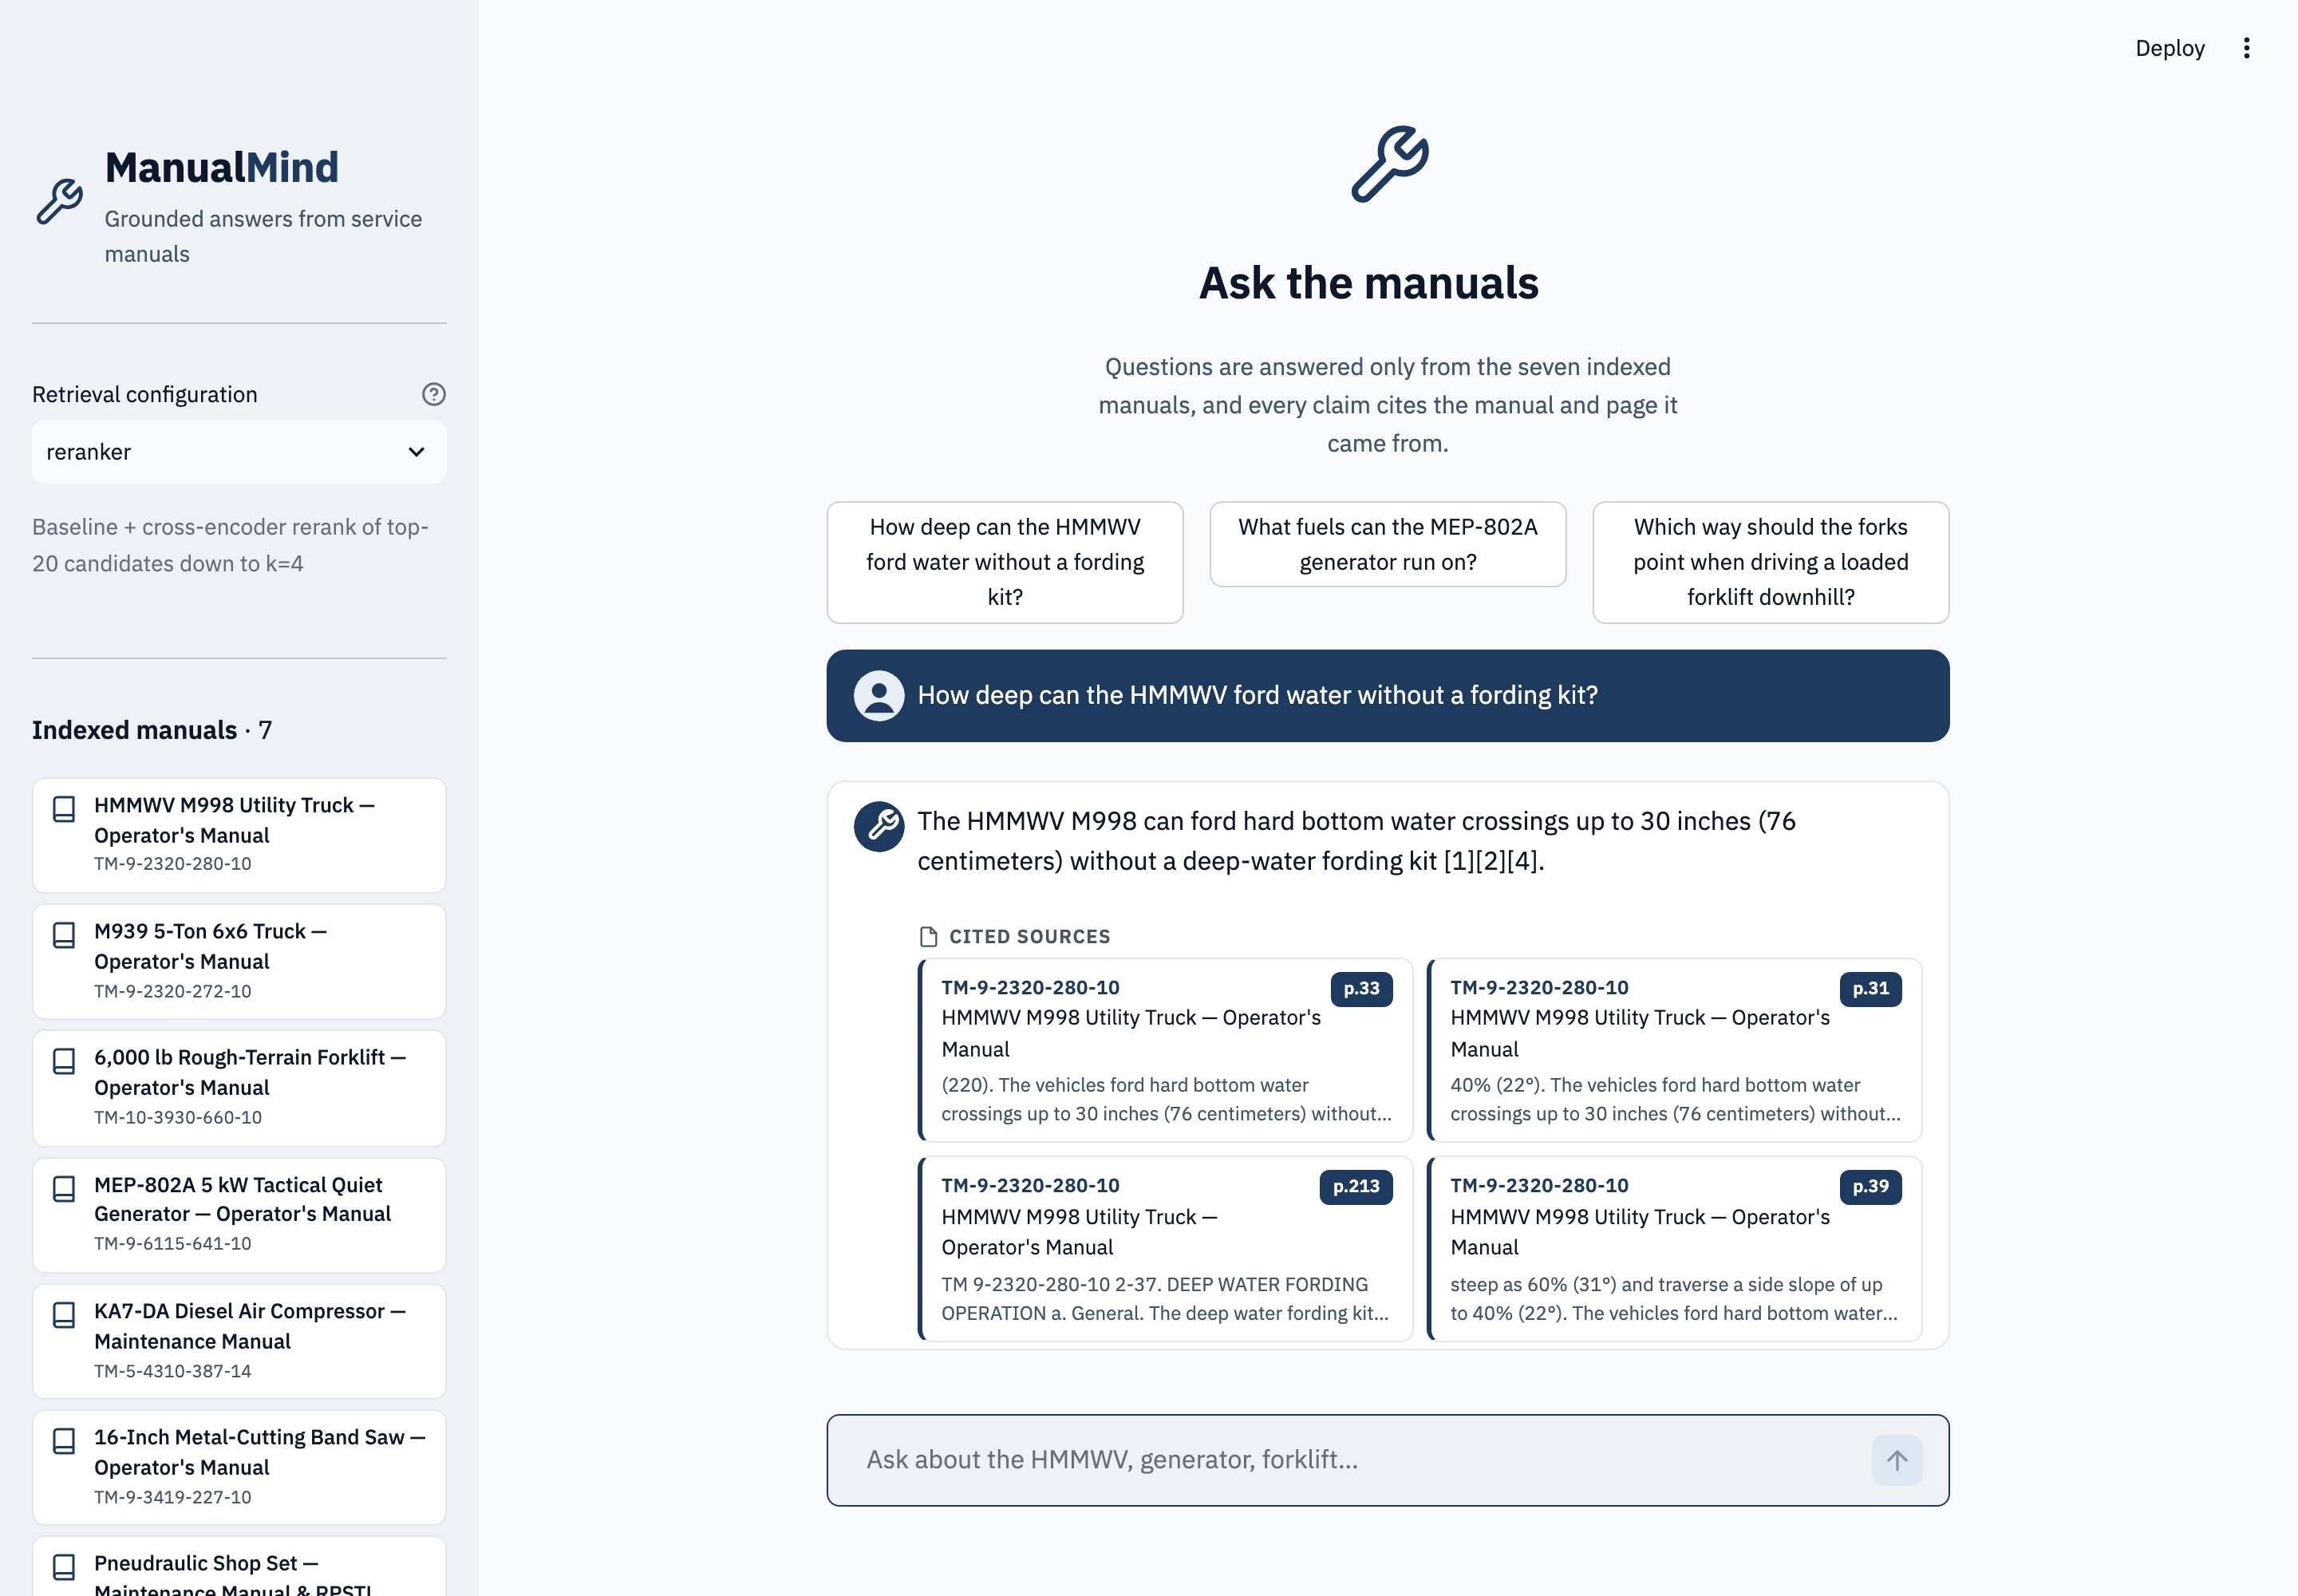
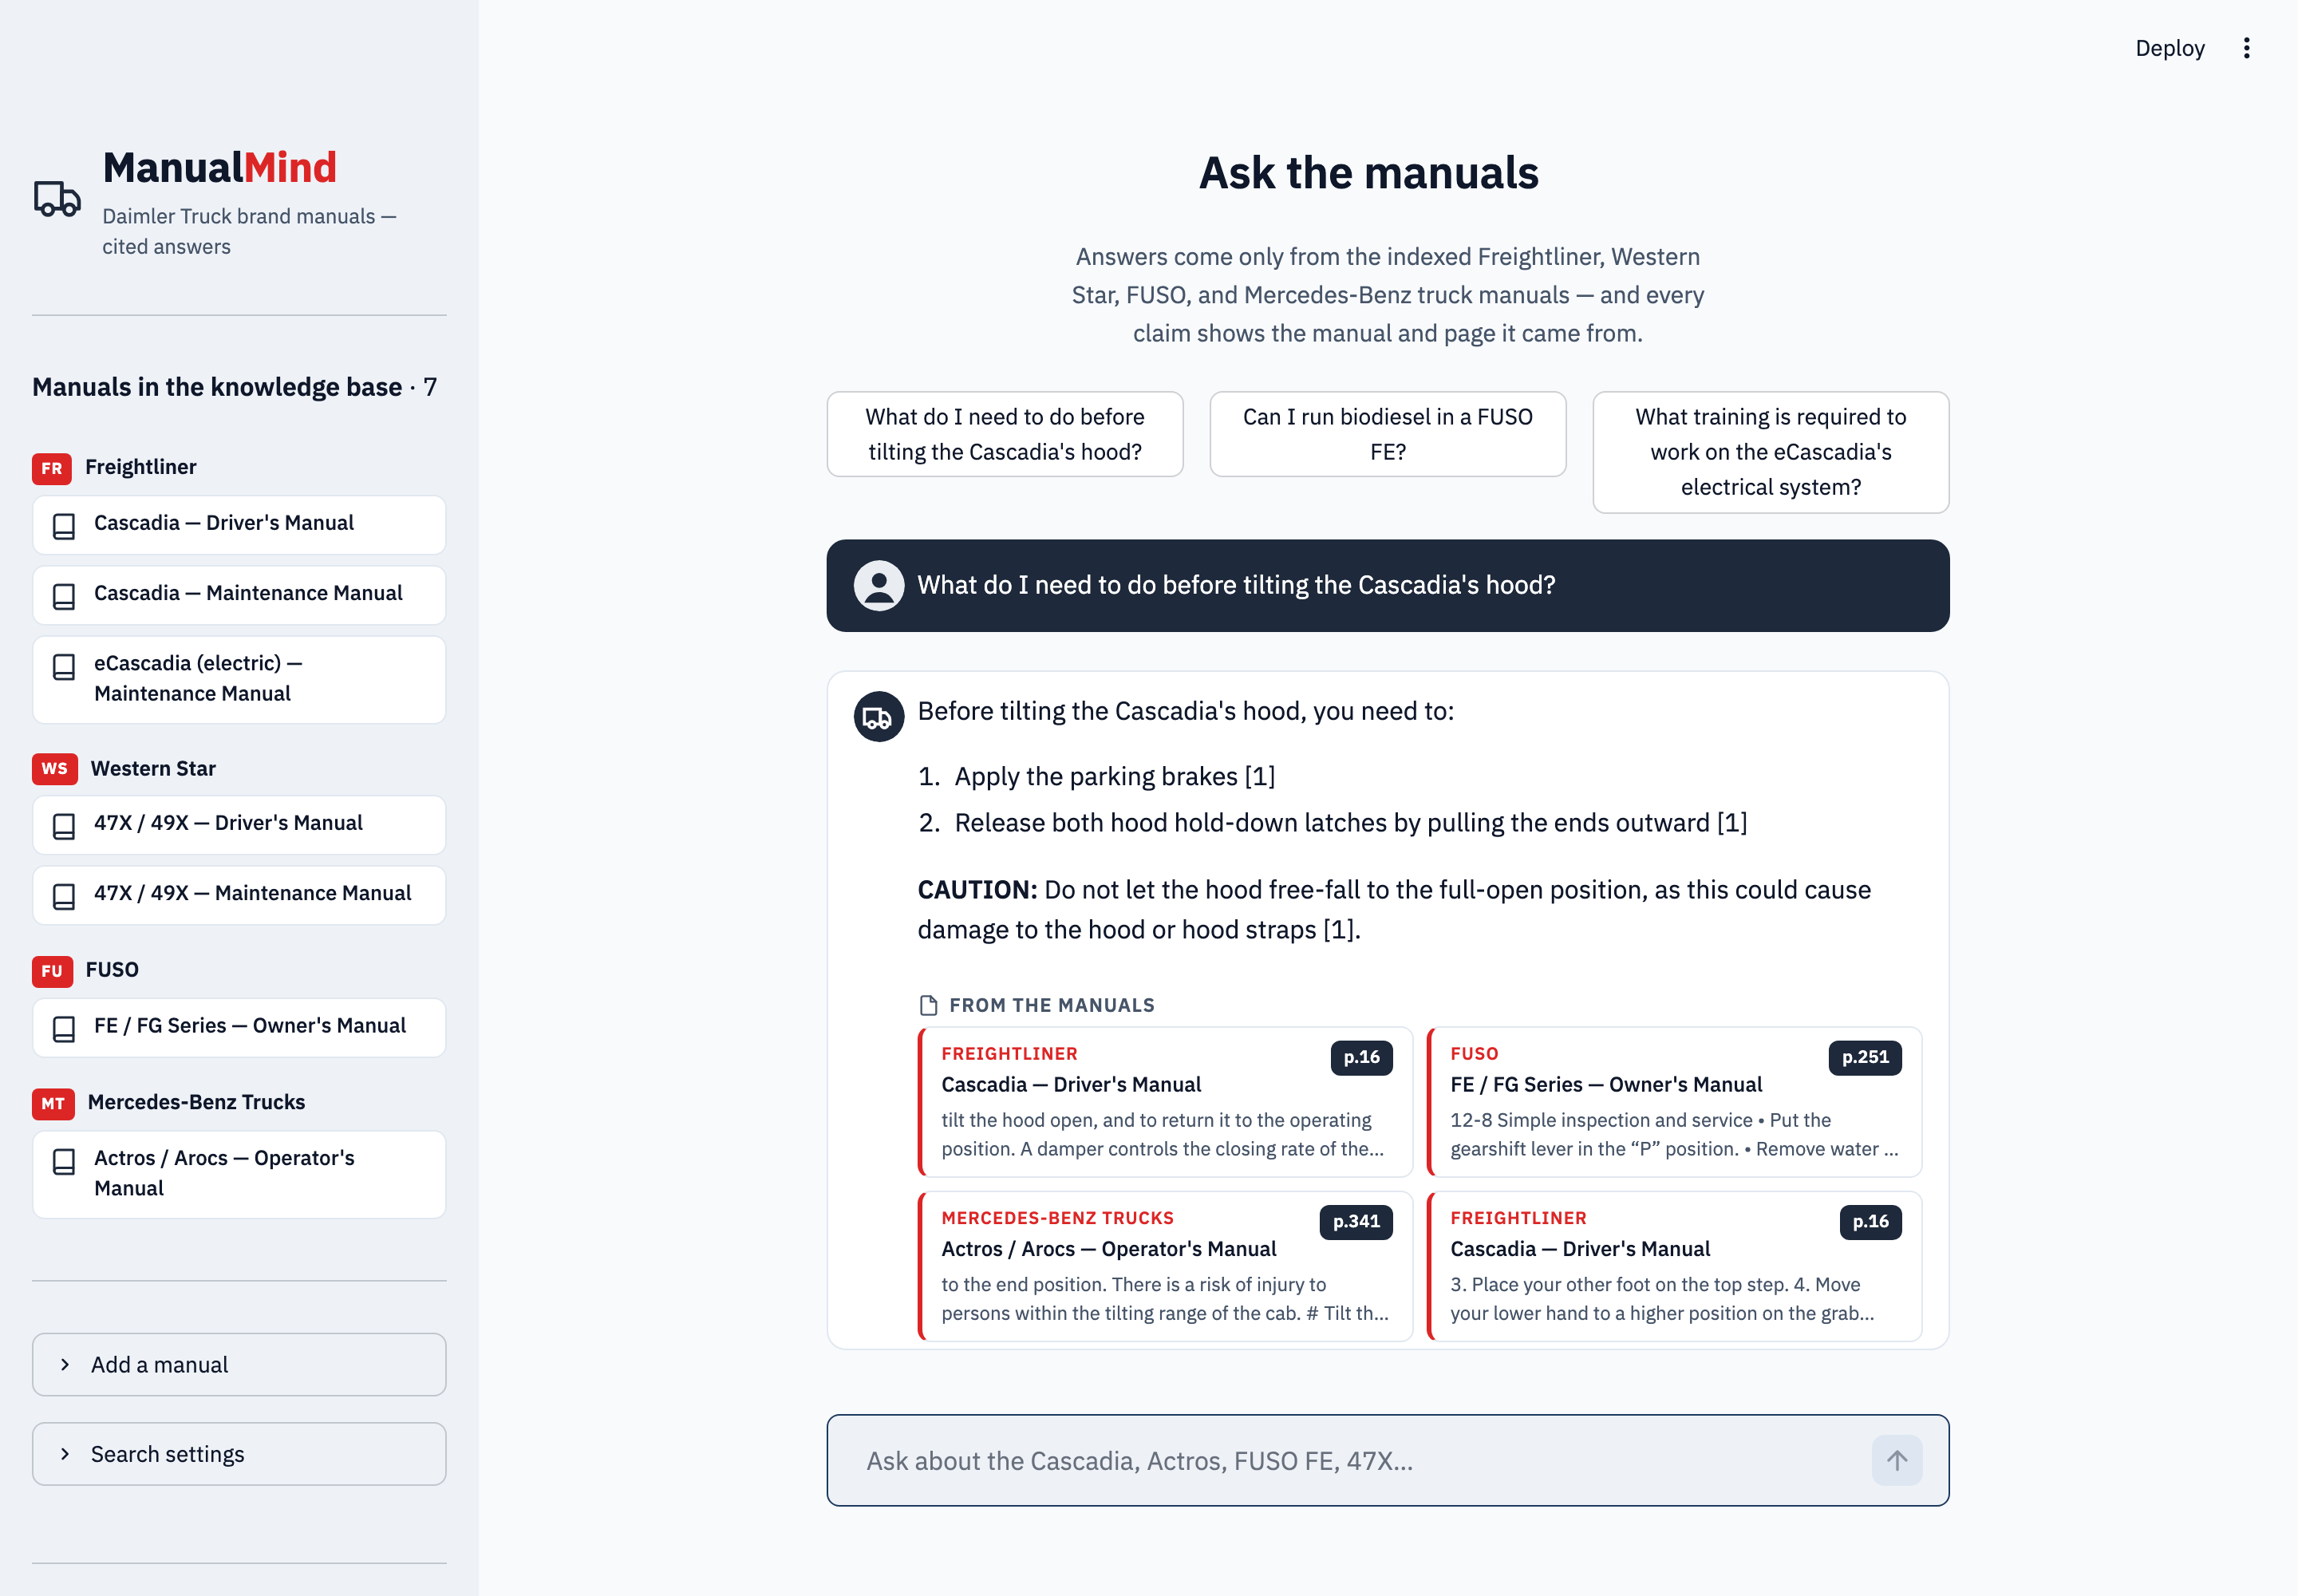
Daimler-corpus Ragas study: reranker wins again (0.991 faith, +0.23 recall)
28 questions x 4 configs, zero errors. Chunk-size effect flips sign vs the
Army corpus (-0.16 recall there, +0.02 here) — documented as the reason to
measure rather than assume. README results + hero screenshot updated.

diff --git a/README.md b/README.md
@@ -10,7 +10,7 @@ including a before/after study that changes one variable at a time.
 > Personal learning/portfolio project. Not affiliated with or endorsed by
 > Daimler Truck AG or Daimler Truck North America.
 
-<!-- SCREENSHOT -->
+![ManualMind: cited answer with brand-labeled source cards](docs/ui-screenshot.png)
 
 ## What it does
 
@@ -30,7 +30,33 @@ including a before/after study that changes one variable at a time.
 
 ## Results (before/after config study)
 
-<!-- RESULTS -->
+All four configs, one Ragas run each over the same 28 questions (generation:
+claude-haiku-4-5; judge: claude-sonnet-5; deltas vs baseline in parentheses).
+Source of truth: `evals/results/*_summary.json` + `comparison.xlsx`, 2026-07-08.
+
+| Config | faithfulness | answer_relevancy | context_precision | context_recall |
+|---|---|---|---|---|
+| baseline (dense, 800/150, k=4) | 0.949 | 0.515 | 0.479 | 0.500 |
+| small-chunks (300/100) | 0.973 (+0.024) | 0.532 (+0.017) | 0.494 (+0.015) | 0.524 (+0.024) |
+| **reranker** (top-20 → cross-encoder → 4) | **0.991** (+0.042) | **0.702** (+0.186) | **0.696** (+0.217) | **0.732** (+0.232) |
+| hybrid (BM25+dense RRF) | 0.932 (−0.018) | 0.618 (+0.102) | 0.600 (+0.121) | 0.714 (+0.214) |
+
+**What the numbers say (faithfulness and recall read together):**
+
+- **Baseline is honest but incomplete** — 0.949 faithfulness with 0.500 recall:
+  when retrieval misses, the bot refuses rather than invents.
+- **The reranker is the clear win**: +0.22 context precision and +0.23 recall,
+  cascading into +0.19 answer relevancy (fewer refusals) while *raising*
+  faithfulness to 0.991. It ships as the default ("Best quality") mode.
+- **Hybrid retrieves well but generates slightly worse** (+0.21 recall,
+  −0.02 faithfulness) — keyword matches sometimes surface near-miss passages
+  the generator over-trusts. It ships as "Exact words + meaning" for part-number
+  style queries.
+- **Chunk size is corpus-dependent — measured twice, opposite signs.** On this
+  prose-style corpus, 300-char chunks *help* slightly (+0.02 recall). On the
+  earlier spec-table-heavy Army corpus, the same change *hurt* badly (−0.16
+  recall, see `archive-army-corpus/`). Exactly why you measure instead of
+  cargo-culting a chunk size.
 
 ## Corpus & licensing
 

diff --git a/evals/results/comparison.md b/evals/results/comparison.md
@@ -1,0 +1,6 @@
+| Config | faithfulness | answer_relevancy | context_precision | context_recall |
+|---|---|---|---|---|
+| baseline | 0.949 | 0.515 | 0.479 | 0.500 |
+| small-chunks | 0.973 (+0.024) | 0.532 (+0.017) | 0.494 (+0.015) | 0.524 (+0.024) |
+| reranker | 0.991 (+0.042) | 0.702 (+0.186) | 0.696 (+0.217) | 0.732 (+0.232) |
+| hybrid | 0.932 (-0.018) | 0.618 (+0.102) | 0.600 (+0.121) | 0.714 (+0.214) |